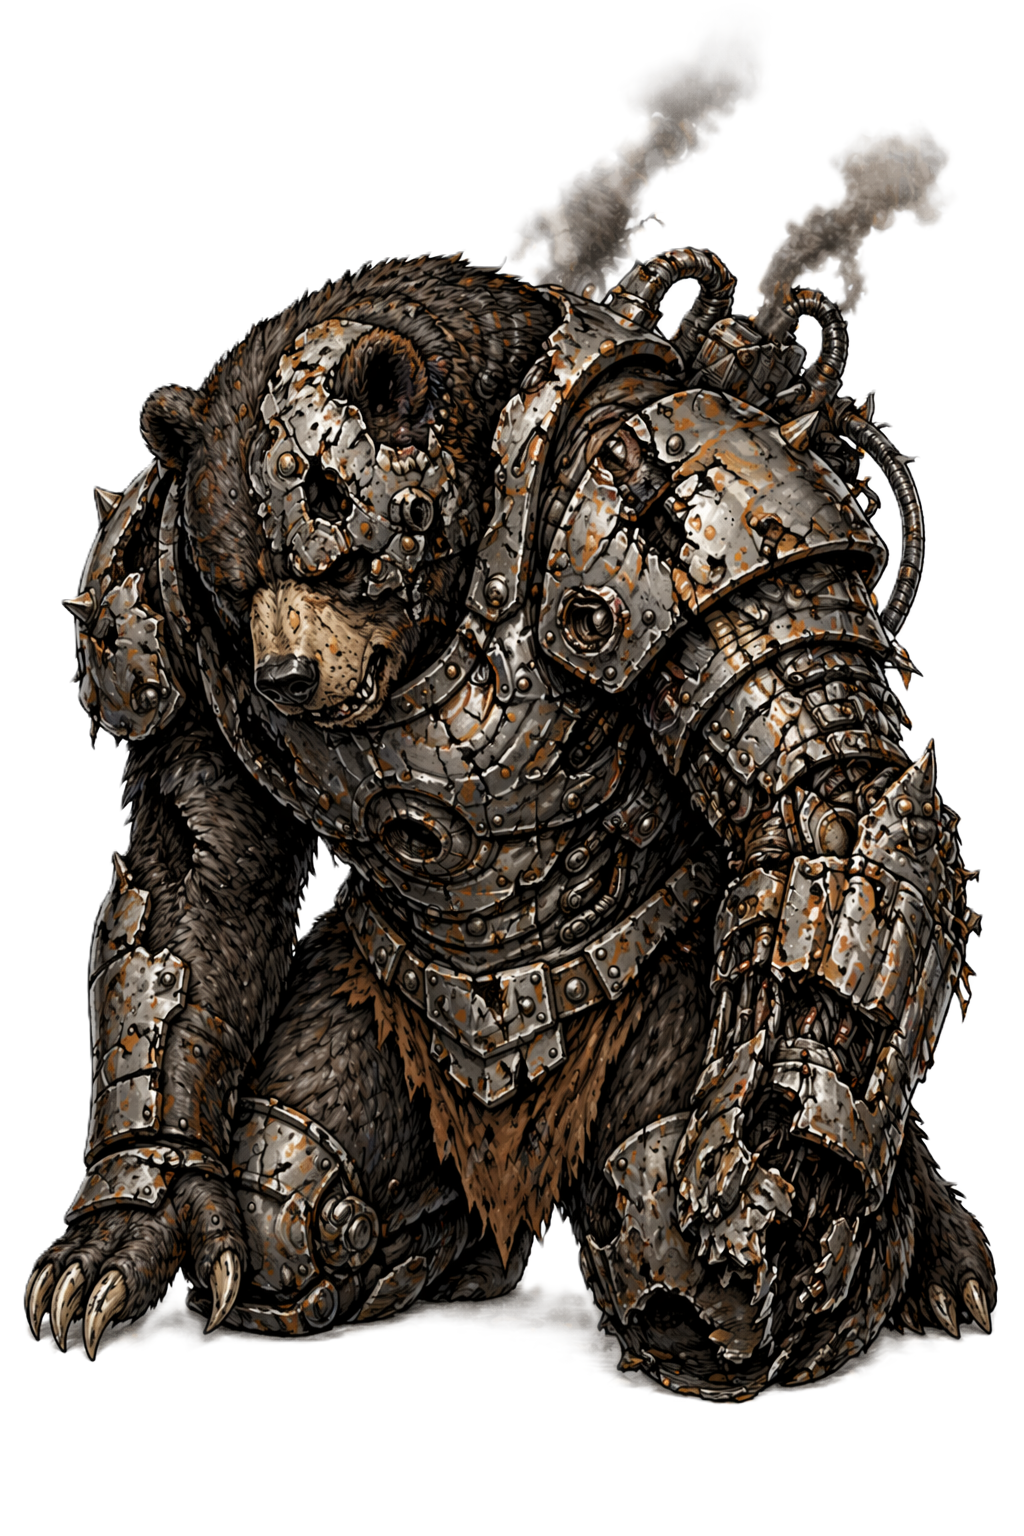
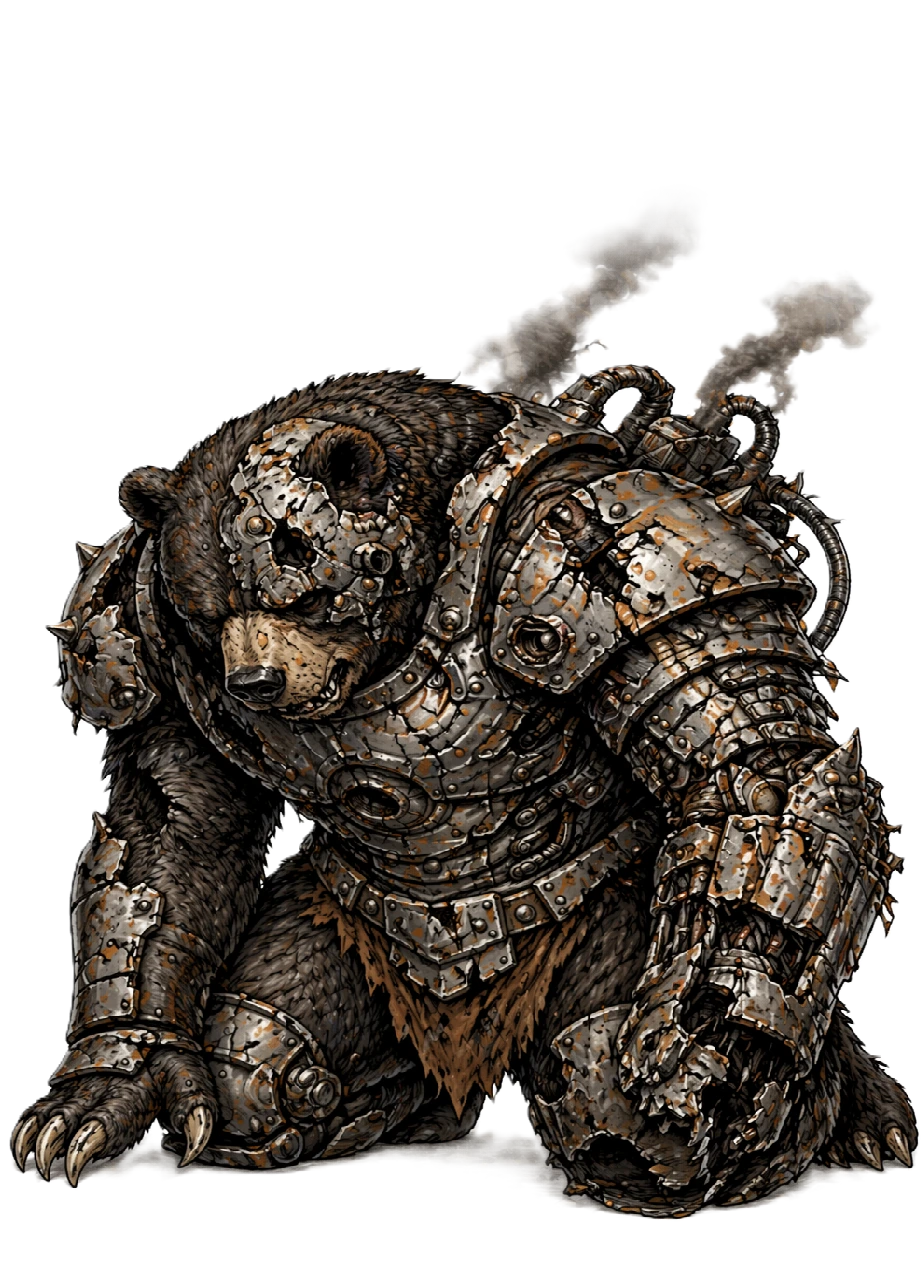
Pythra Spritesheet

diff --git a/client/src/scenes/RunScene.ts b/client/src/scenes/RunScene.ts
@@ -28,6 +28,7 @@ import { CHARACTER_VISUALS, resolveCharacterSkinKey, type CharacterSkinKey } fro
 import skawlSheet from '../assets/characters/skawl/Skawl_SpriteSheet.webp';
 import rabyzSheet from '../assets/characters/rabyz/Rabyz_SpriteSheet-v2.webp';
 import boldearSheet from '../assets/characters/boldear/Boldear_SpriteSheet.webp';
+import pythraSheet from '../assets/characters/pythra/Pythra_SpriteSheet.webp';
 
 import rackoSheet from '../assets/characters/top-down_enemies/shooter/Racko_SpriteSheet.webp';
 import rhondaSheet from '../assets/characters/top-down_enemies/shooter/Rhonda_SpriteSheet.webp';
@@ -251,6 +252,12 @@ const RUN_BOSS_SHEETS = {
   Boldear: {
     textureKey: 'boss-boldear-run-sheet',
     framePrefix: 'boss-boldear-run',
+    xCuts: [0, 293, 587, 880],
+    yCuts: [0, 300, 599, 899, 1198],
+  },
+  Pythra: {
+    textureKey: 'boss-pythra-run-sheet',
+    framePrefix: 'boss-pythra-run',
     xCuts: [0, 293, 587, 880],
     yCuts: [0, 300, 599, 899, 1198],
   },
@@ -521,6 +528,8 @@ export class RunScene extends Phaser.Scene {
       this.load.image('boss-rabyz-run-sheet', rabyzSheet);
     if (!this.textures.exists('boss-boldear-run-sheet'))
       this.load.image('boss-boldear-run-sheet', boldearSheet);
+    if (!this.textures.exists('boss-pythra-run-sheet'))
+      this.load.image('boss-pythra-run-sheet', pythraSheet);
 
     const skinUrl = CHARACTER_VISUALS[this.playerSkin].sheetUrl;
     if (!this.textures.exists(this.playerSkin))
@@ -1009,6 +1018,7 @@ export class RunScene extends Phaser.Scene {
       case 'Skawl': return 'boss-skawl-run-sheet';
       case 'Rabyz': return 'boss-rabyz-run-sheet';
       case 'Boldear': return 'boss-boldear-run-sheet';
+      case 'Pythra': return 'boss-pythra-run-sheet';
       default: return KEY_SPR_ENEMY; // fallback to generic enemy sprite if something goes wrong with fetching boss data
     }
   }
@@ -1018,6 +1028,7 @@ export class RunScene extends Phaser.Scene {
       case 'Skawl': return 'boss-skawl-run-down';
       case 'Rabyz': return 'boss-rabyz-run-down';
       case 'Boldear': return 'boss-boldear-run-down';
+      case 'Pythra': return 'boss-pythra-run-down';
       default: return ''; // fallback to generic idle animation
     }
   }
@@ -1061,6 +1072,19 @@ export class RunScene extends Phaser.Scene {
         repeat: -1,
       });
     }
+
+    if (!this.anims.exists('boss-pythra-run-down')) {
+      this.anims.create({
+        key: 'boss-pythra-run-down',
+        frames: [
+          { key: 'boss-pythra-run-sheet', frame: 'boss-pythra-run-down-0' },
+          { key: 'boss-pythra-run-sheet', frame: 'boss-pythra-run-down-1' },
+          { key: 'boss-pythra-run-sheet', frame: 'boss-pythra-run-down-2' },
+        ],
+        frameRate: 6,
+        repeat: -1,
+      });
+    }
   }
 
 
@@ -1089,6 +1113,7 @@ export class RunScene extends Phaser.Scene {
         this.selectedBoss?.enemyName === 'Skawl' ? 'boss-skawl-run' :
         this.selectedBoss?.enemyName === 'Rabyz' ? 'boss-rabyz-run' :
         this.selectedBoss?.enemyName === 'Boldear' ? 'boss-boldear-run' :
+        this.selectedBoss?.enemyName === 'Pythra' ? 'boss-pythra-run' :
         '';
 
       this.duelBossSprite = this.add.sprite(
